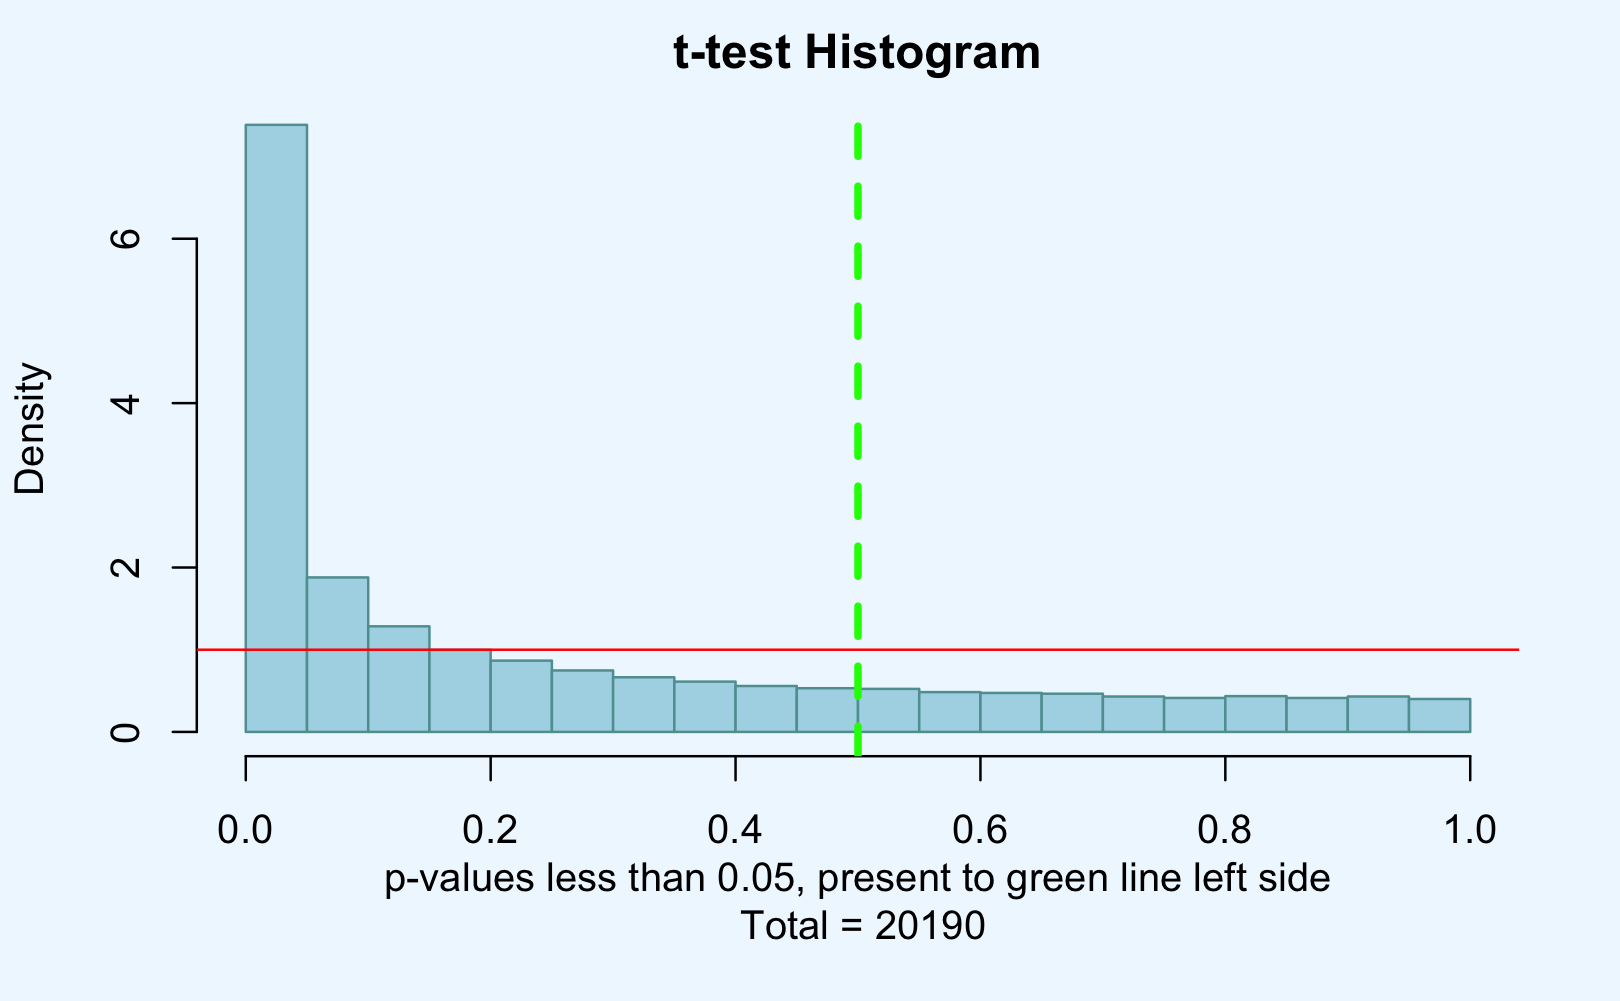
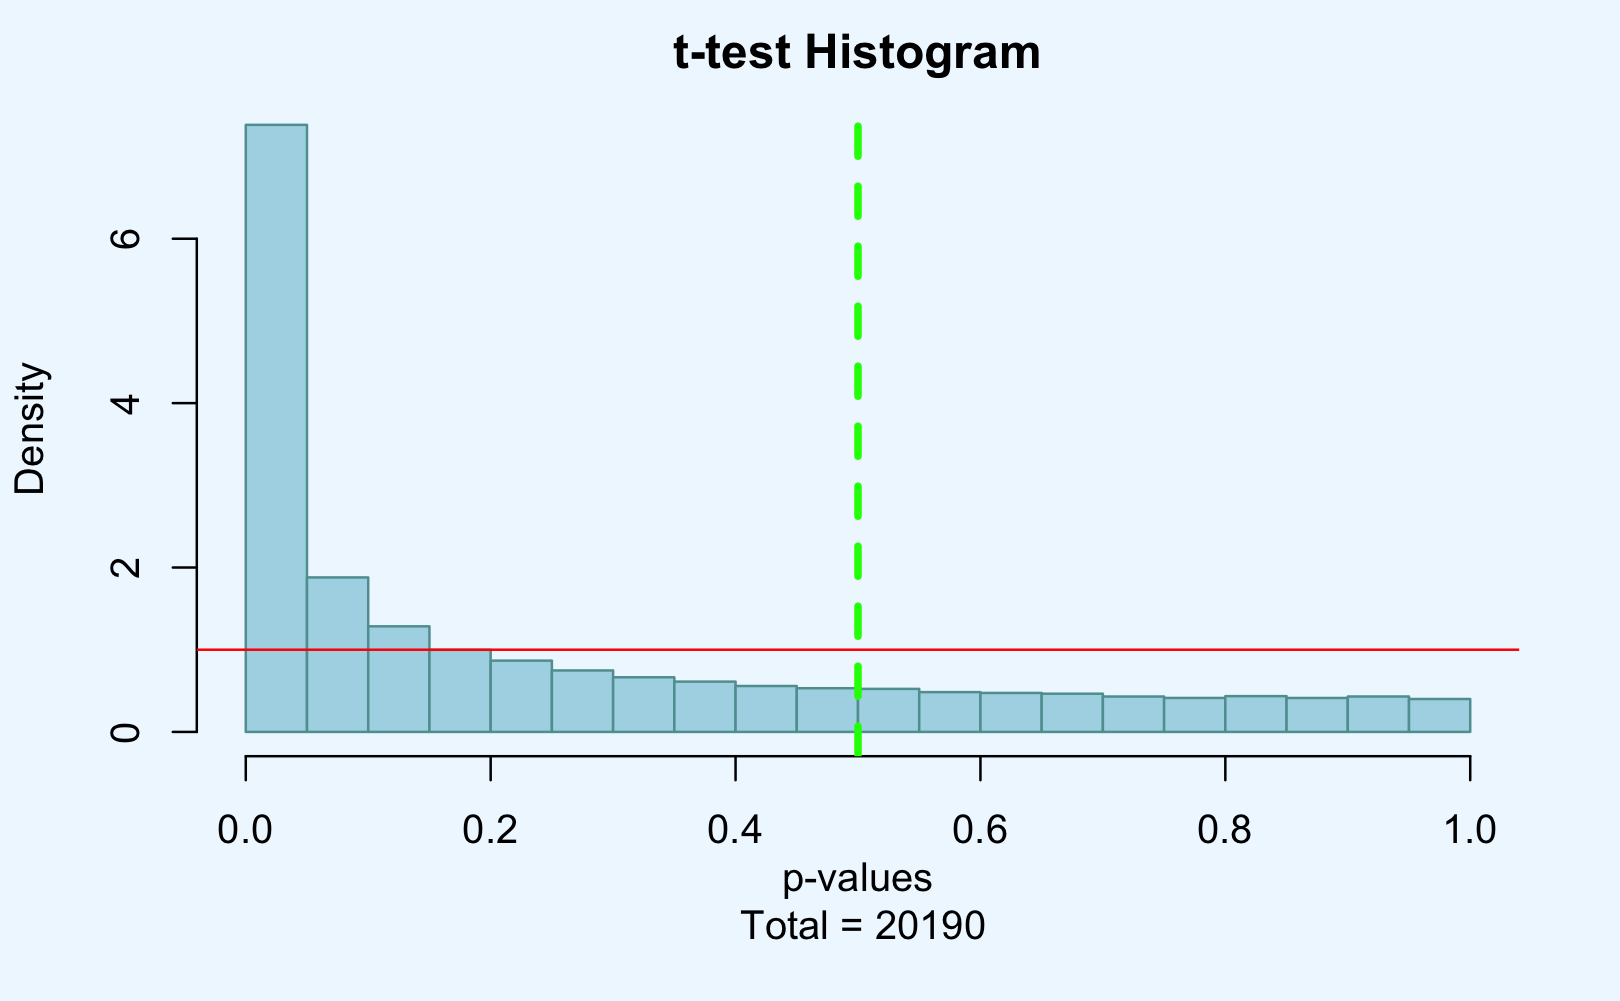
updating information and histogram

Changed region(s): [[0.216, 0.8671, 0.8333, 0.8981]]

diff --git a/docs/pvals_eval.md b/docs/pvals_eval.md
@@ -2,7 +2,7 @@ Evaluating p-values
 ================
 José C.S. Curet
 
-The objective of this project was to evaluate the effectiviness of
+The objective of this project for a statistic class was to evaluate the effectiviness of
 different p-value methods. Using the some of the data from the following
 publication:
 
@@ -13,189 +13,39 @@ therapy* \[published correction appears in Oncogene. 2018
 Oct;37(41):5585-5586\]. Oncogene. 2015;34(15):1919‐1927.
 <doi:10.1038/onc.2014.138>
 
+
+### Description:
+
 In this article they present breast cancer cells susceptibles and
-resistant to Tamoxifeno, then they compare the gene expression with the
-cells susceptibility to the drug.
+resistant to Tamoxifen, then they compare the gene expression with the
+cells susceptibility to the drug. Compose of 54675 features and 18 samples, which are divided into 10 resistant and 8 sensitive to Tamoxifen.
 
-    ## Found 1 file(s)
+### Analysis:
 
-    ## GSE67916_series_matrix.txt.gz
+Doing a `t-test` to evaluate all the features of the cell lines to identify which are resistant or no I was able to observe 20190 p-values showing significance.
 
-    ## Parsed with column specification:
-    ## cols(
-    ##   ID_REF = col_character(),
-    ##   GSM1658401 = col_double(),
-    ##   GSM1658402 = col_double(),
-    ##   GSM1658403 = col_double(),
-    ##   GSM1658404 = col_double(),
-    ##   GSM1658405 = col_double(),
-    ##   GSM1658406 = col_double(),
-    ##   GSM1658407 = col_double(),
-    ##   GSM1658408 = col_double(),
-    ##   GSM1658409 = col_double(),
-    ##   GSM1658410 = col_double(),
-    ##   GSM1658411 = col_double(),
-    ##   GSM1658412 = col_double(),
-    ##   GSM1658413 = col_double(),
-    ##   GSM1658414 = col_double(),
-    ##   GSM1658415 = col_double(),
-    ##   GSM1658416 = col_double(),
-    ##   GSM1658417 = col_double(),
-    ##   GSM1658418 = col_double()
-    ## )
-
-    ## [1] "ExpressionSet"
-    ## attr(,"package")
-    ## [1] "Biobase"
-
-A continuación extraeremos los elementos de gset que usaremos en nuestro
-análisis.
-
-Podemos ver el resumen del artículo usando
-
-``` r
-abstract(experimentData(gset))
-```
-
-La matrix de expresiones puede obtenerse como
-
-``` r
-matexpr<-exprs(gset)
-dim(matexpr)
-```
-
-    ## [1] 54675    18
-
-El conjunto de datos contiene 54675 “features”. Para cada uno de ellos,
-hay observaciones para 18 individuos.
-
-Para saber cuáles de las líneas celulares son susceptibles y cuales son
-resistentes al Tamoxifeno, extraeremos la información fenotípica.
-
-``` r
-pdata<-pData(phenoData(gset))
-g=factor(pdata$`tamoxifen sensitivity:ch1`)
-summary(g)
-```
-
-    ## resistant sensitive 
-    ##        10         8
-
-Vemos que hay 10 líneas resistentes y 8 susceptibles al Tamoxifeno.
-
-# 1\. Realice pruebas t para comparar la expresión de todos los “features” para líneas celulares resistentes y susceptibles. ¿Cuántos p-valores son significativos?
-
-``` r
-rowttestD <- rowttests(matexpr, g)$p.value
-sum(rowttestD < 0.05)
-```
-
-    ## [1] 20190
-
-  - haciendo un rowttests del conjunto de datos podemos ver que 20190 p
-    valores se encontraron como significativos
-
-# 2\. Haga un histograma de los p-valores usando la opción freq=F, y superponga una línea horizontal en 1 (recuerde que si la hipótesis nula es cierta, los p-valores siguen una distribución uniforme). Comente sobre la cantidad de falsos positivos.
-
-``` r
-lthanfv <- sum(rowttestD < 0.05)
-xlab_description <- c(paste("p-valores menores a 0.05, desde la columna vertical a la iszquierda\n  con un total de = " , lthanfv , sep=""))
-par(bg = 'aliceblue')
-hist(rowttestD, freq=F, xlab = xlab_description, ylab = "Densidad", col = "lightblue", border = "cadetblue", main = "Histograma de Pruebas T")
-abline(h=1 , col="red")
-abline(v=0.5, col="green", lty=2, lwd=3)
-```
+Next we have a histogram of the `t-test` showing the p-values.
 
 ![](pvals_eval_img1.png)
 
+  - Observing the graph, we have a relative uniform behavior, the values are distributed from 0 to 1 and we can see a p-values peak close to 0, which could represent the alternative hypotesis and is probably where the false positive lie on.
 
-![](web_plvals_eval_files/figure-gfm/unnamed-chunk-7-1.png)<!-- -->
+  - For this first analysis we have 20190 p-values with statistical significance, since they are below the established standard 0.05.
 
-  - Observando esta gráfica, tenemos que es relativamente uniforme, los
-    valores distribuidos desde 0 a 1, observamos un pico de p valores
-    cerca del 0, lo cuál podría representar la hipotesis alternativa y
-    es donde los falsos positivos es probable que se encuentren.
+  - Something else to have in mind is that to more data, grater the possibility to get a FWER(family-wise error rate), Type I error.
 
-  - Para este primer análisis tenemos que 20190 p valores tienen
-    diferencia significativa por encontrarse por debajo de los 0.05 del
-    estándar establecido.
+  - Calculating the probability of finding a FWER, taking in consideration each sample is independent. For this test I calculated with 1000 data, and a p-value less than 0.05. I was able to see that the probability is 1 of finding a FWER, which made it occurrence completely possible, implying I should use another method to reduce the error.
 
-\-Pero algo que hay que tener en cuenta es que a mayor cantidad de datos
-mayor la posibilidad de encontrar FWER(family-wise error rate), o mejor
-conocido como error de tipo I.
+Using the `Bonferroni` method to get the sum of the p-values less than 0.05 I got 274.
 
-  - Si brevemente usamos el ejemplo presentado por Rafael Irizarry en el
-    libro Data Analysis for the Life Sciences para encontrar la
-    probabilidad de FWER tomando en consideración que cada muestra es
-    independiente. Haciendo una muestra a larga escala.
+  - Comparing to the amount of p-values obtained before we get that Bonferroni method it is73.6861313869 times smaller. Showing a big adjustment, also by avoiding having Type I errors we could be getting Type II errors, false negatives.
 
-En este caso haré un cálculo con 1000 datos y un p-valor menor a 0.05…
+With `Benjamini & Hochberg` method I got 11827 statistical significant.
 
-``` r
-# Haciendo una prueba de FWER
-B<-1000
-minpval <- replicate(B, min(runif(1000,0,1))<0.05)
-mean(minpval>=1)
-```
+Last, testing with the package `qvalue` I got 19367 considered significant.
 
-    ## [1] 1
+To conclude, using the `qvalue` and `Benjamini & Hochberg` we can see that they are less conservative than `Bonferroni` and the adjustment allows more possible p-values.
 
-  - Aquí vemos que la probalidad es de 1, lo que que indica que es
-    totalmente probable la ocurrencia. Por esta razón es mejor utilizar
-    otro métodos para así dismunuir el error.
-
-# 3\. ¿Cuántos p-valores son menores que 0.05 si se ajustan usando el método de Bonferroni?
-
-``` r
-bonferroniPvals <- round(p.adjust(rowttestD,method="bonferroni"),4)
-sum(bonferroniPvals < 0.05)
-```
-
-    ## [1] 274
-
-  - Ajustando los p valores que obtuvimos antes, al método de Bonferroni
-    tenemos que 274 p valores son menores a 0.05. Si hacemos un poco de
-    matemática, 20190(valor anterior)/274(Bonferroni) = 73.6861313869
-    veces más pequeño. Lo que ajusta bastante, pero también por evitar
-    tener errores de tipo I podriamos comenzar a estar obteniendo
-    errores de tipo II, y tendríamos falsos negativos.
-
-# 4\. Ajuste los p-valores usando el método de Benjamini y Hochberg ( “False Discovery Rate”) ¿Cuál es el número de p-valores significativos al 5% luego de este ajuste?
-
-``` r
-benjamin.hochberg <- round(p.adjust(rowttestD,method="BH"),4)
-sum(benjamin.hochberg < 0.05)
-```
-
-    ## [1] 11827
-
-  - usando el ajuste de Benjamini y Hochberg tenemos que 11827 se
-    considera significativos
-
-# 5\. Repita el ejercicio usando el ajuste en el paquete `qvalue` y reporte el número de p-valores significativos.
-
-``` r
-#BiocManager::install("qvalue")
-library(qvalue)
-qval = qvalue(rowttestD)
-sumQvals <- sum(qval$qvalue < 0.05)
-sumQvals
-```
-
-    ## [1] 19367
-
-  - usando el paquete de `qvalue` para ajustar los p valores tenemos que
-    19367 se consideran significativos
-
-  - usando el qvalue y el método de Benjamini y Hochberg podemos ver que
-    son menos consevadores que Bonferroni y el ajuste permite la entrada
-    más p valores.
-
-  - Considero que cada método podría ser usado dependiendo de la
-    investigación u estilo. Si alguién quiere un poco más de apertura en
-    la evaluación de los datos y sacrificar tener la probabilidad de
-    tener un poco más de error tipo I, pues podría usar Benjamini &
-    Hochberg o qvalue. Si al contrario prefiere ser un poco conservador
-    y prefiere tener errores de tipo II, pues podría escoger Bonferroni.
+I consider that each method could be used depending on the research style and type of dataset being used. If someone wants more window to evaluate the data and sacrifice the probability of getting more Type I error they should consider using the `Benjamini & Hochberg` or  `qvalue`. Otherwise would like to possibly risk having more Type II error could consider `Bonferroni`.
 
 [return to Work](./)
